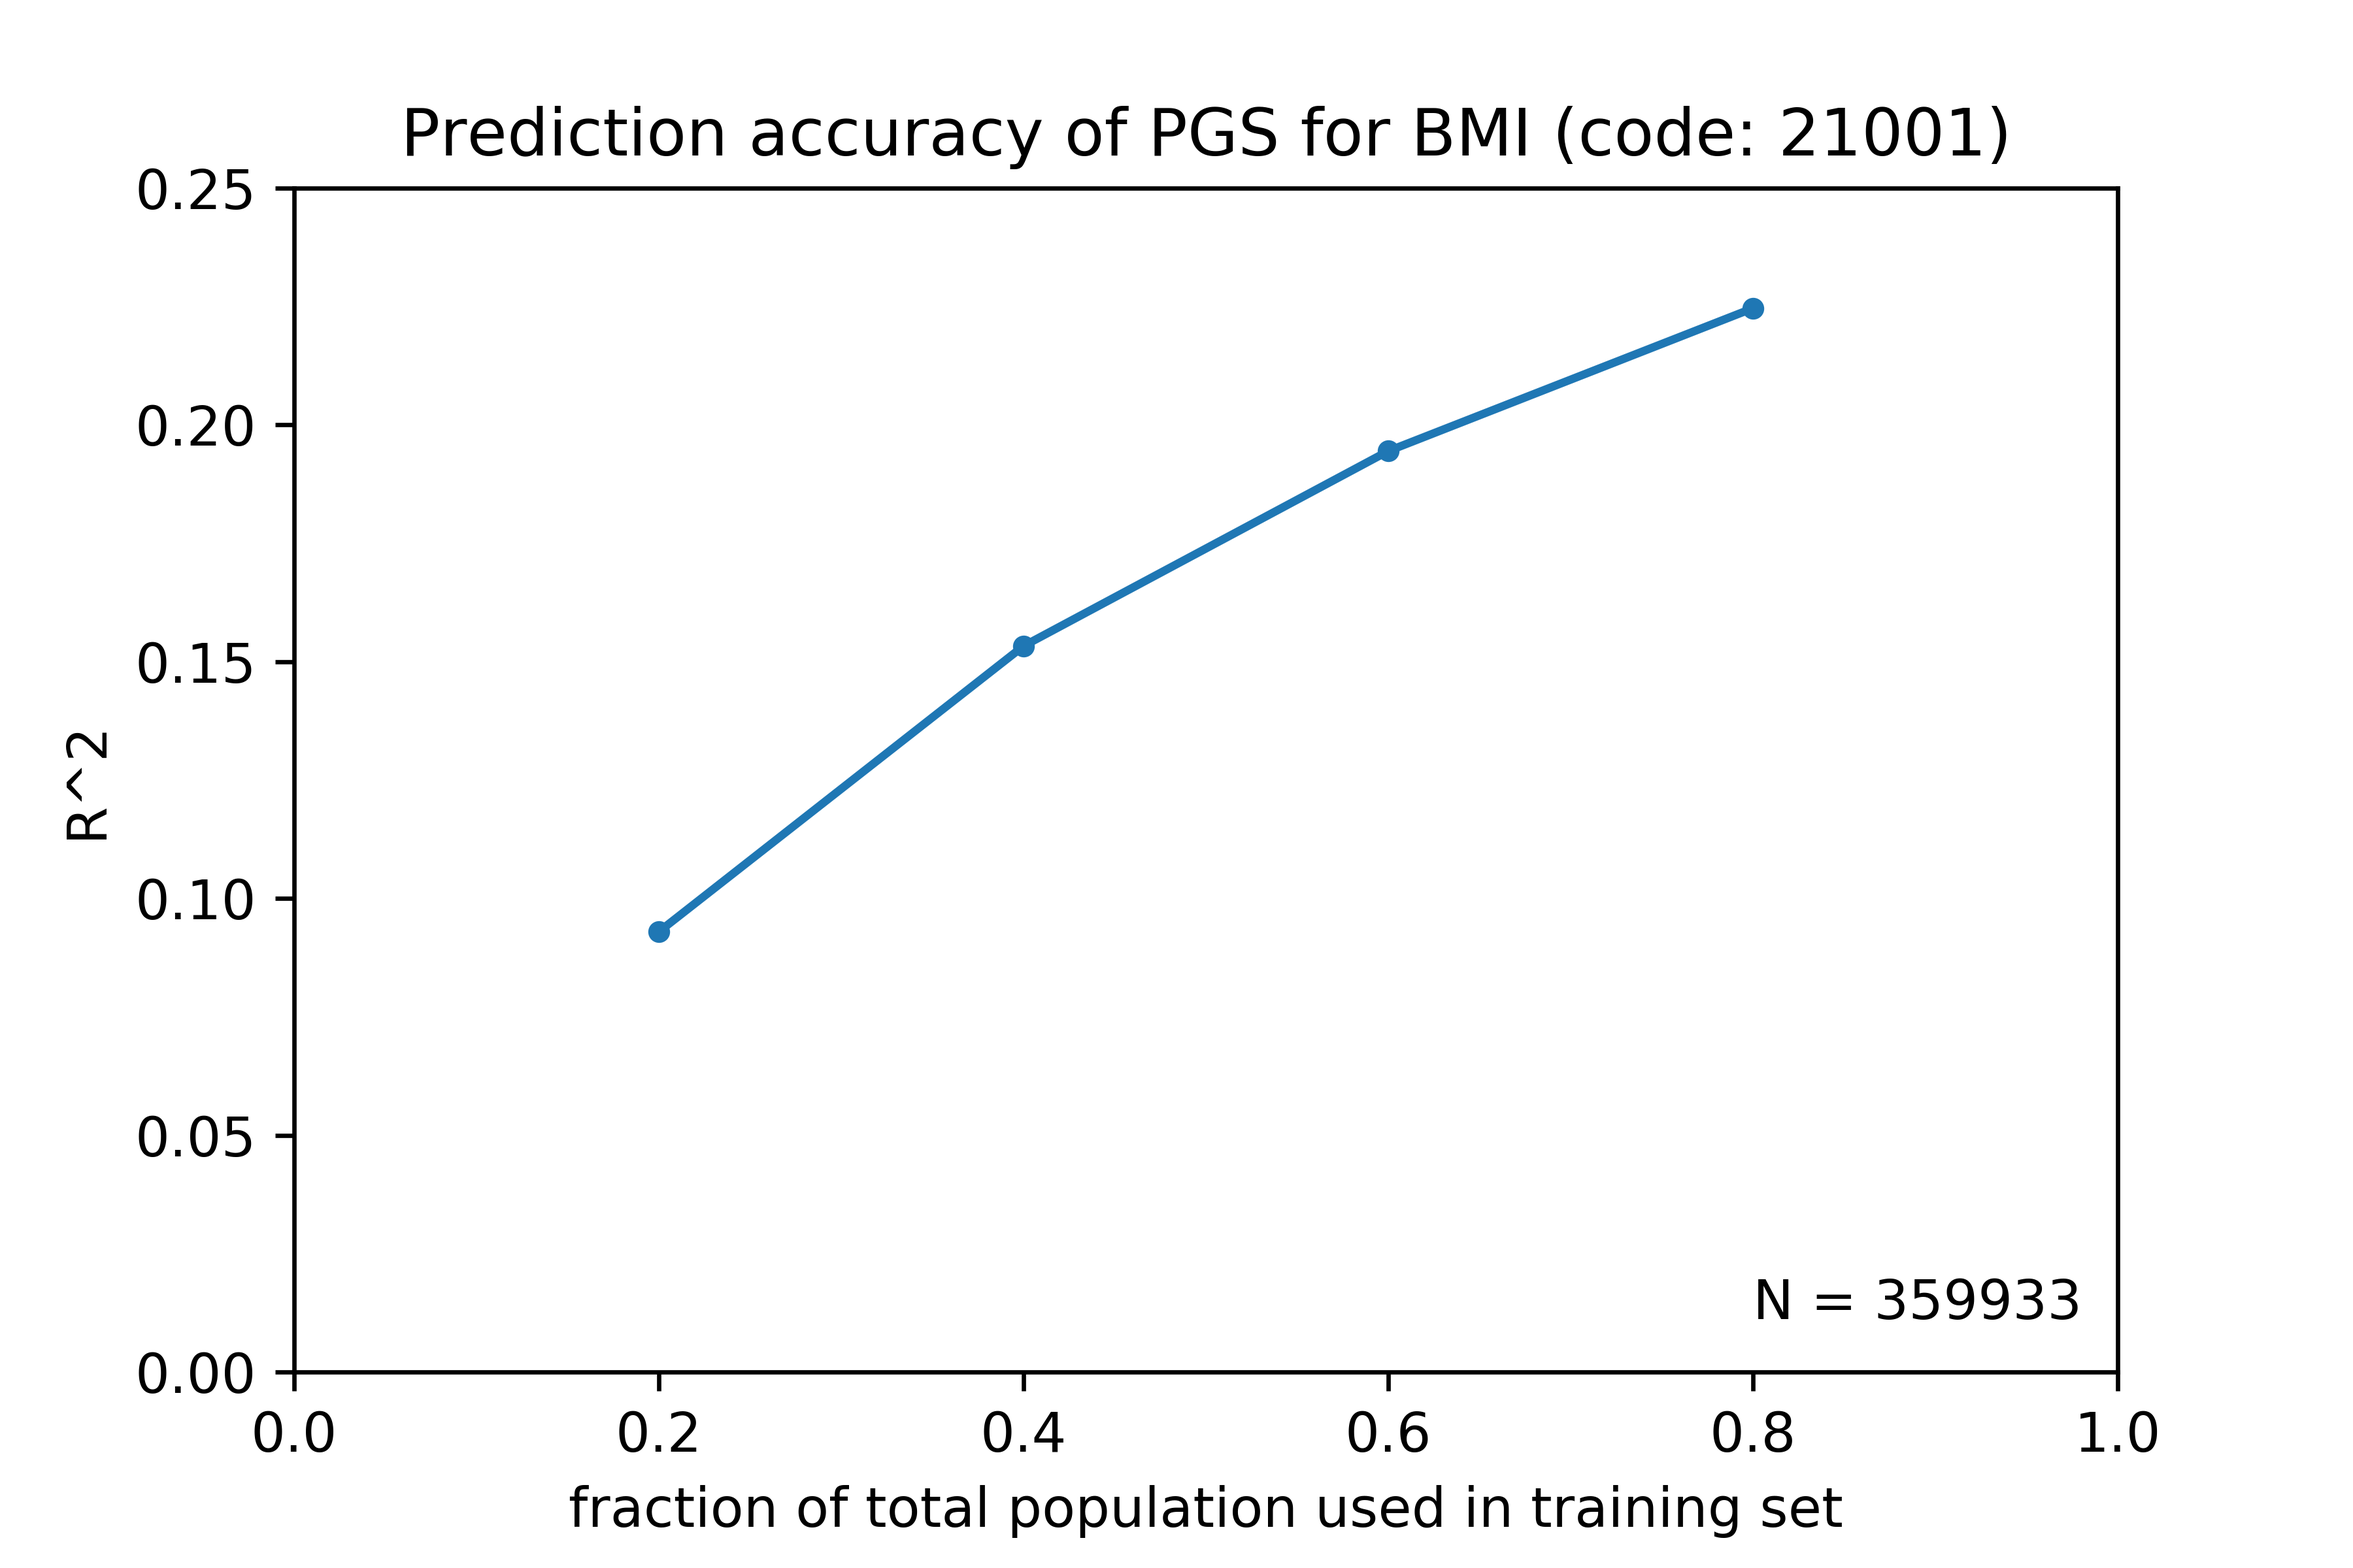
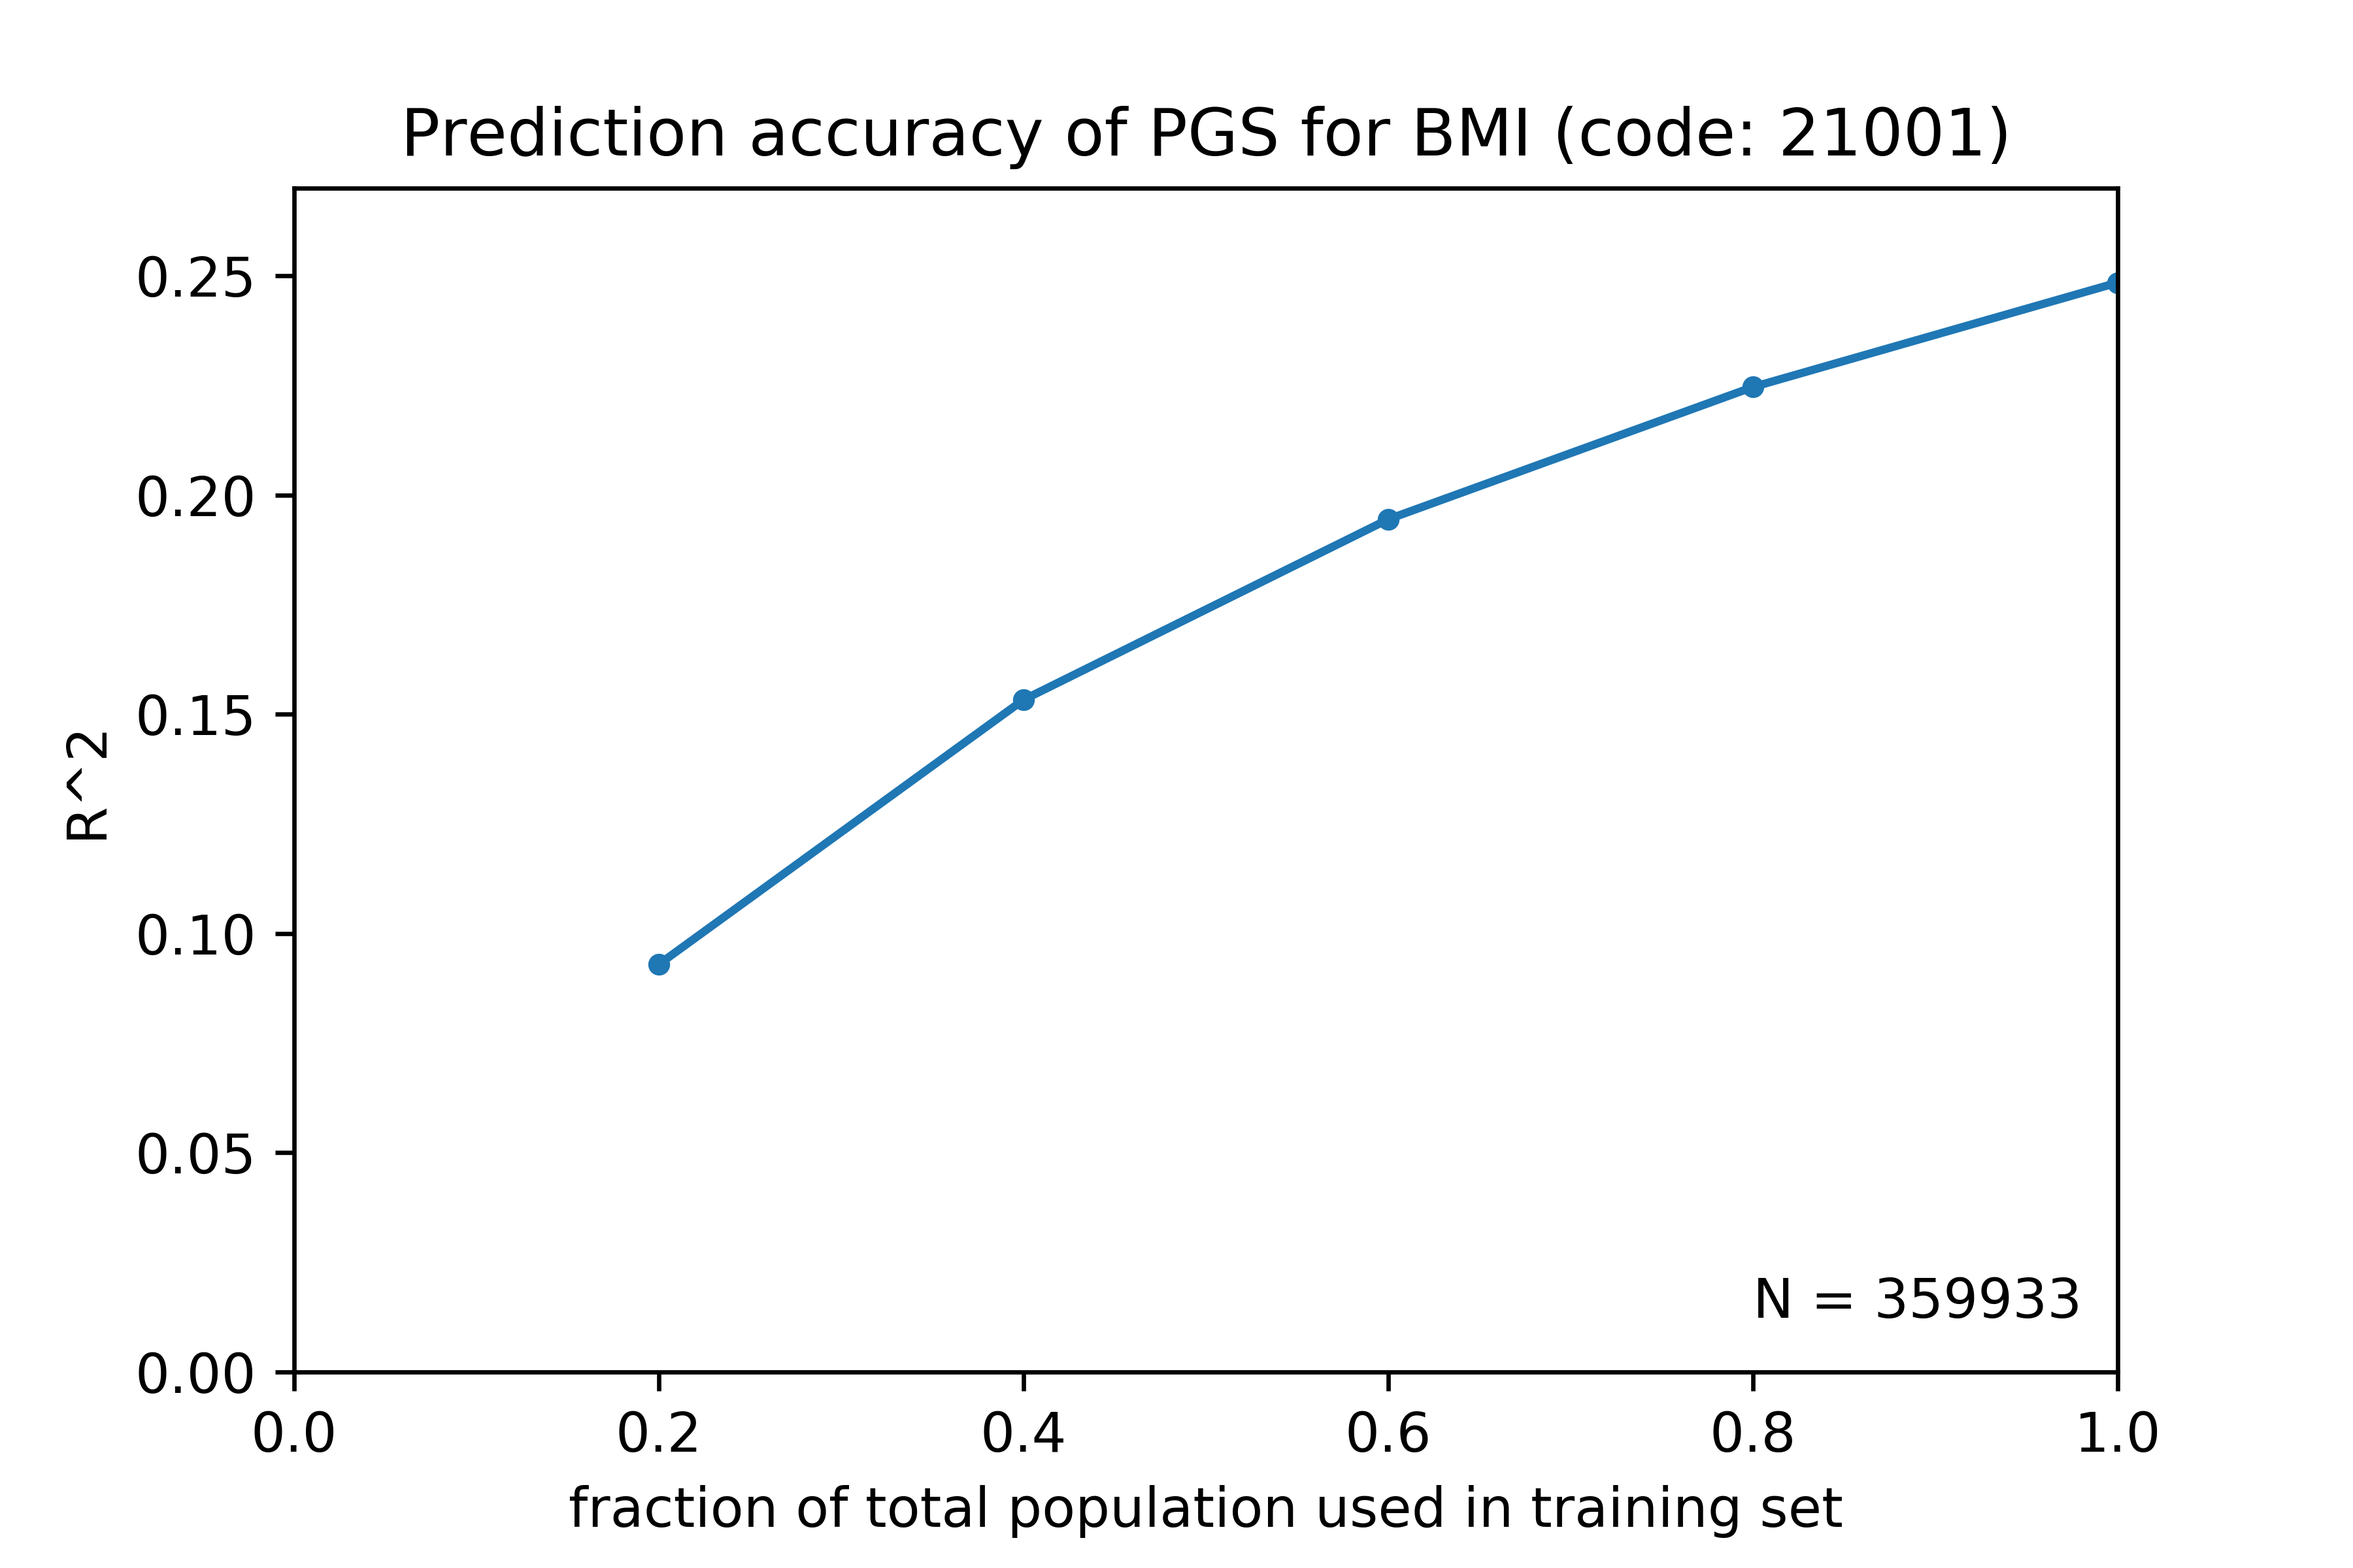
updated get_mt()

diff --git a/downsample_gwas.py b/downsample_gwas.py
@@ -15,6 +15,7 @@ import argparse
 import numpy as np
 from hail.utils.java import Env
 import datetime as dt
+import subprocess
 
 
 parser = argparse.ArgumentParser(add_help=False)
@@ -22,7 +23,7 @@ parser.add_argument('--phen_ls', nargs='+', type=str, required=True, help="pheno
 parser.add_argument('--frac_all_ls', nargs='+', type=float, required=False, default=None, help="downsampling fraction of all individuals")
 parser.add_argument('--frac_cas_ls', nargs='+', type=float, required=False, default=None, help="downsampling fraction of cases")
 parser.add_argument('--frac_con_ls', nargs='+', type=float, required=False, default=None, help="downsampling fraction of controls")
-parser.add_argument('--seed', type=int, required=False, default=None, help="random seed for replicability")
+parser.add_argument('--seed', type=int, required=False, default=1, help="random seed for replicability")
 args = parser.parse_args()
 
 phen_ls = args.phen_ls
@@ -30,7 +31,6 @@ frac_all_ls = args.frac_all_ls
 frac_cas_ls = args.frac_cas_ls
 frac_con_ls = args.frac_con_ls
 seed = args.seed
-seed = 1 if seed is None else seed
 
 frac_all_ls = [1] if frac_all_ls == None else frac_all_ls
 frac_cas_ls = [1] if frac_cas_ls == None else frac_cas_ls
@@ -42,9 +42,9 @@ phen_dict = {
     '2443':'diabetes',
     '21001':'bmi',
 }
-gc_bucket = 'gs://nbaya/risk_gradients/gwas/'
+gwas_wd = 'gs://nbaya/risk_gradients/gwas/'
 
-def get_mt(phen, variant_set):
+def get_mt(phen, variant_set, seed=None, test_set=0.1):
     mt0 = hl.read_matrix_table(f'gs://nbaya/split/ukb31063.{variant_set}_variants.gwas_samples_repart.mt')
     
     print(f'\nReading UKB phenotype {phen_dict[phen]} (code: {phen})...')
@@ -68,11 +68,47 @@ def get_mt(phen, variant_set):
     withdrawn_set = set(withdrawn.f0.take(withdrawn.count()))
     mt1 = mt1.filter_cols(hl.literal(withdrawn_set).contains(mt1['s']),keep=False) 
     mt1 = mt1.key_cols_by('s')
-    
+        
     n = mt1.count_cols()
     n_cas = mt1.filter_cols(mt1.phen == 1).count_cols()
     
-    return mt1, n, n_cas
+    #Create training and testing matrix tables
+    train_mt_path = f'{gwas_wd}train.{phen}.mt'
+    test_mt_path = f'{gwas_wd}test.{phen}.mt'
+    train_mt_done = (subprocess.call(['gsutil','ls',train_mt_path]) == 0)
+    test_mt_done = (subprocess.call(['gsutil','ls',test_mt_path]) == 0)
+    if not (train_mt_done and test_mt_done):
+        seed = seed if seed is not None else int(str(Env.next_seed())[:8])
+        n_train = int(round(n*(1-test_set)))
+        n_test = n-n_train
+        print('*****************')
+        print(f'Setting {test_set} of total population to be in the testing set')
+        print(f'n_train = {n_train}\tn_test = {n_test}')
+        print(f'seed = {seed}')
+        print('*****************')
+        randstate = np.random.RandomState(int(seed)) #seed random state for replicability
+        labels = ['train']*n_train+['test']*n_test
+        randstate.shuffle(labels)
+        mt2 = mt1.add_col_index('tmp_index').key_cols_by('tmp_index')
+        mt3 = mt2.annotate_cols(label = hl.literal(labels)[hl.int32(mt2.tmp_index)])
+        if not train_mt_done:
+            mt3.filter_cols(mt3.label == 'train').write(train_mt_path)
+        if not test_mt_done:
+            mt3.filter_cols(mt3.label == 'test').write(test_mt_path)
+    train_mt = hl.read_matrix_table(train_mt_path)
+    test_mt = hl.read_matrix_table(test_mt_path)
+    
+    n_cas_train = train_mt.filter_cols(train_mt.phen == 1).count_cols()
+    n_cas_test = test_mt.filter_cols(test_mt.phen == 1).count_cols()
+    
+    print('*****************')
+    print(f'Original prevalence: {round(n_cas/n,6)}')
+    print(f'Prevalence in training dataset: {round(n_cas_train/n_train,6)}')
+    print(f'Prevalence in testing dataset: {round(n_cas_test/n_test,6)}')
+    print(f'If trait is not case/control, these will probably both be 0.')
+    print('*****************')
+    
+    return train_mt, n_train, n_cas_train, test_mt, n_test, n_cas_test
     
 def downsample(mt, frac, phen, for_cases=None, seed = None):
     start = dt.datetime.now()
@@ -134,7 +170,7 @@ if __name__ == "__main__":
     print(header)
     
     for phen in phen_ls:
-        mt, n, n_cas = get_mt(phen, variant_set)
+        mt, n, n_cas, _, _, _ = get_mt(phen, variant_set, seed=seed, )
         print('\n*************')
         print(f'Starting phenotype: {phen_dict[phen]} (code: {phen})') 
         print('Time: {:%H:%M:%S (%Y-%b-%d)}'.format(dt.datetime.now()))
@@ -145,6 +181,9 @@ if __name__ == "__main__":
             mt1, _, _ = downsample(mt=mt,frac=frac_all,phen=mt.phen,for_cases=None,seed=seed)
             for frac_cas in frac_cas_ls:
                 mt2, _, _ = downsample(mt=mt1,frac=frac_cas,phen=mt1.phen,for_cases=1,seed=seed)
+                if len(frac_cas)>1 or frac_cas != [1]:
+                    print('\ncheckpointing matrix table')
+                    mt2 = mt2.checkpoint(f'{gwas_wd}tmp.mt')
                 for frac_con in frac_con_ls:
                     start_iter = dt.datetime.now()
                     mt3, n_new, n_cas_new = downsample(mt=mt2,frac=frac_con,phen=mt2.phen,for_cases=0,seed=seed)
@@ -153,9 +192,9 @@ if __name__ == "__main__":
                     mt3 = mt3.annotate_entries(GT = gt0[(mt3.locus,mt3.alleles),mt3.s].GT)
                     mt3 = mt3.annotate_rows(maf = hl.agg.stats(mt3.dosage).mean/2) # annotate with maf
                     if frac_con == 1 and frac_cas ==1:
-                        id_path = f'{gc_bucket}iid.{phen}.n_{n_new}of{n}.seed_{seed}.tsv.bgz' 
+                        id_path = f'{gwas_wd}iid.{phen}.n_{n_new}of{n}.seed_{seed}.tsv.bgz' 
                     else:
-                        id_path = f'{gc_bucket}iid.{phen}.n_{n_new}of{n}.n_cas_{n_cas_new}of{n_cas}.seed_{seed}.tsv.bgz' 
+                        id_path = f'{gwas_wd}iid.{phen}.n_{n_new}of{n}.n_cas_{n_cas_new}of{n_cas}.seed_{seed}.tsv.bgz' 
                     cols = mt3.cols().key_by().select('s')
                     cols = cols.annotate(iid=cols.s).annotate(s=1).rename({'s':'fid'}).export(id_path)
                     
@@ -182,9 +221,9 @@ if __name__ == "__main__":
                                      eff = ht[ss.SNP]['beta'])
 
                     if frac_con == 1 and frac_cas ==1:
-                        path = f'{gc_bucket}ss.{phen}.n_{n_new}of{n}.seed_{seed}.tsv.bgz' 
+                        path = f'{gwas_wd}ss.{phen}.n_{n_new}of{n}.seed_{seed}.tsv.bgz' 
                     else:
-                        path = f'{gc_bucket}ss.{phen}.n_{n_new}of{n}.n_cas_{n_cas_new}of{n_cas}.seed_{seed}.tsv.bgz' 
+                        path = f'{gwas_wd}ss.{phen}.n_{n_new}of{n}.n_cas_{n_cas_new}of{n_cas}.seed_{seed}.tsv.bgz' 
                     ss.export(path)
                     elapsed_iter = dt.datetime.now()-start_iter
                     print('\n*************')
